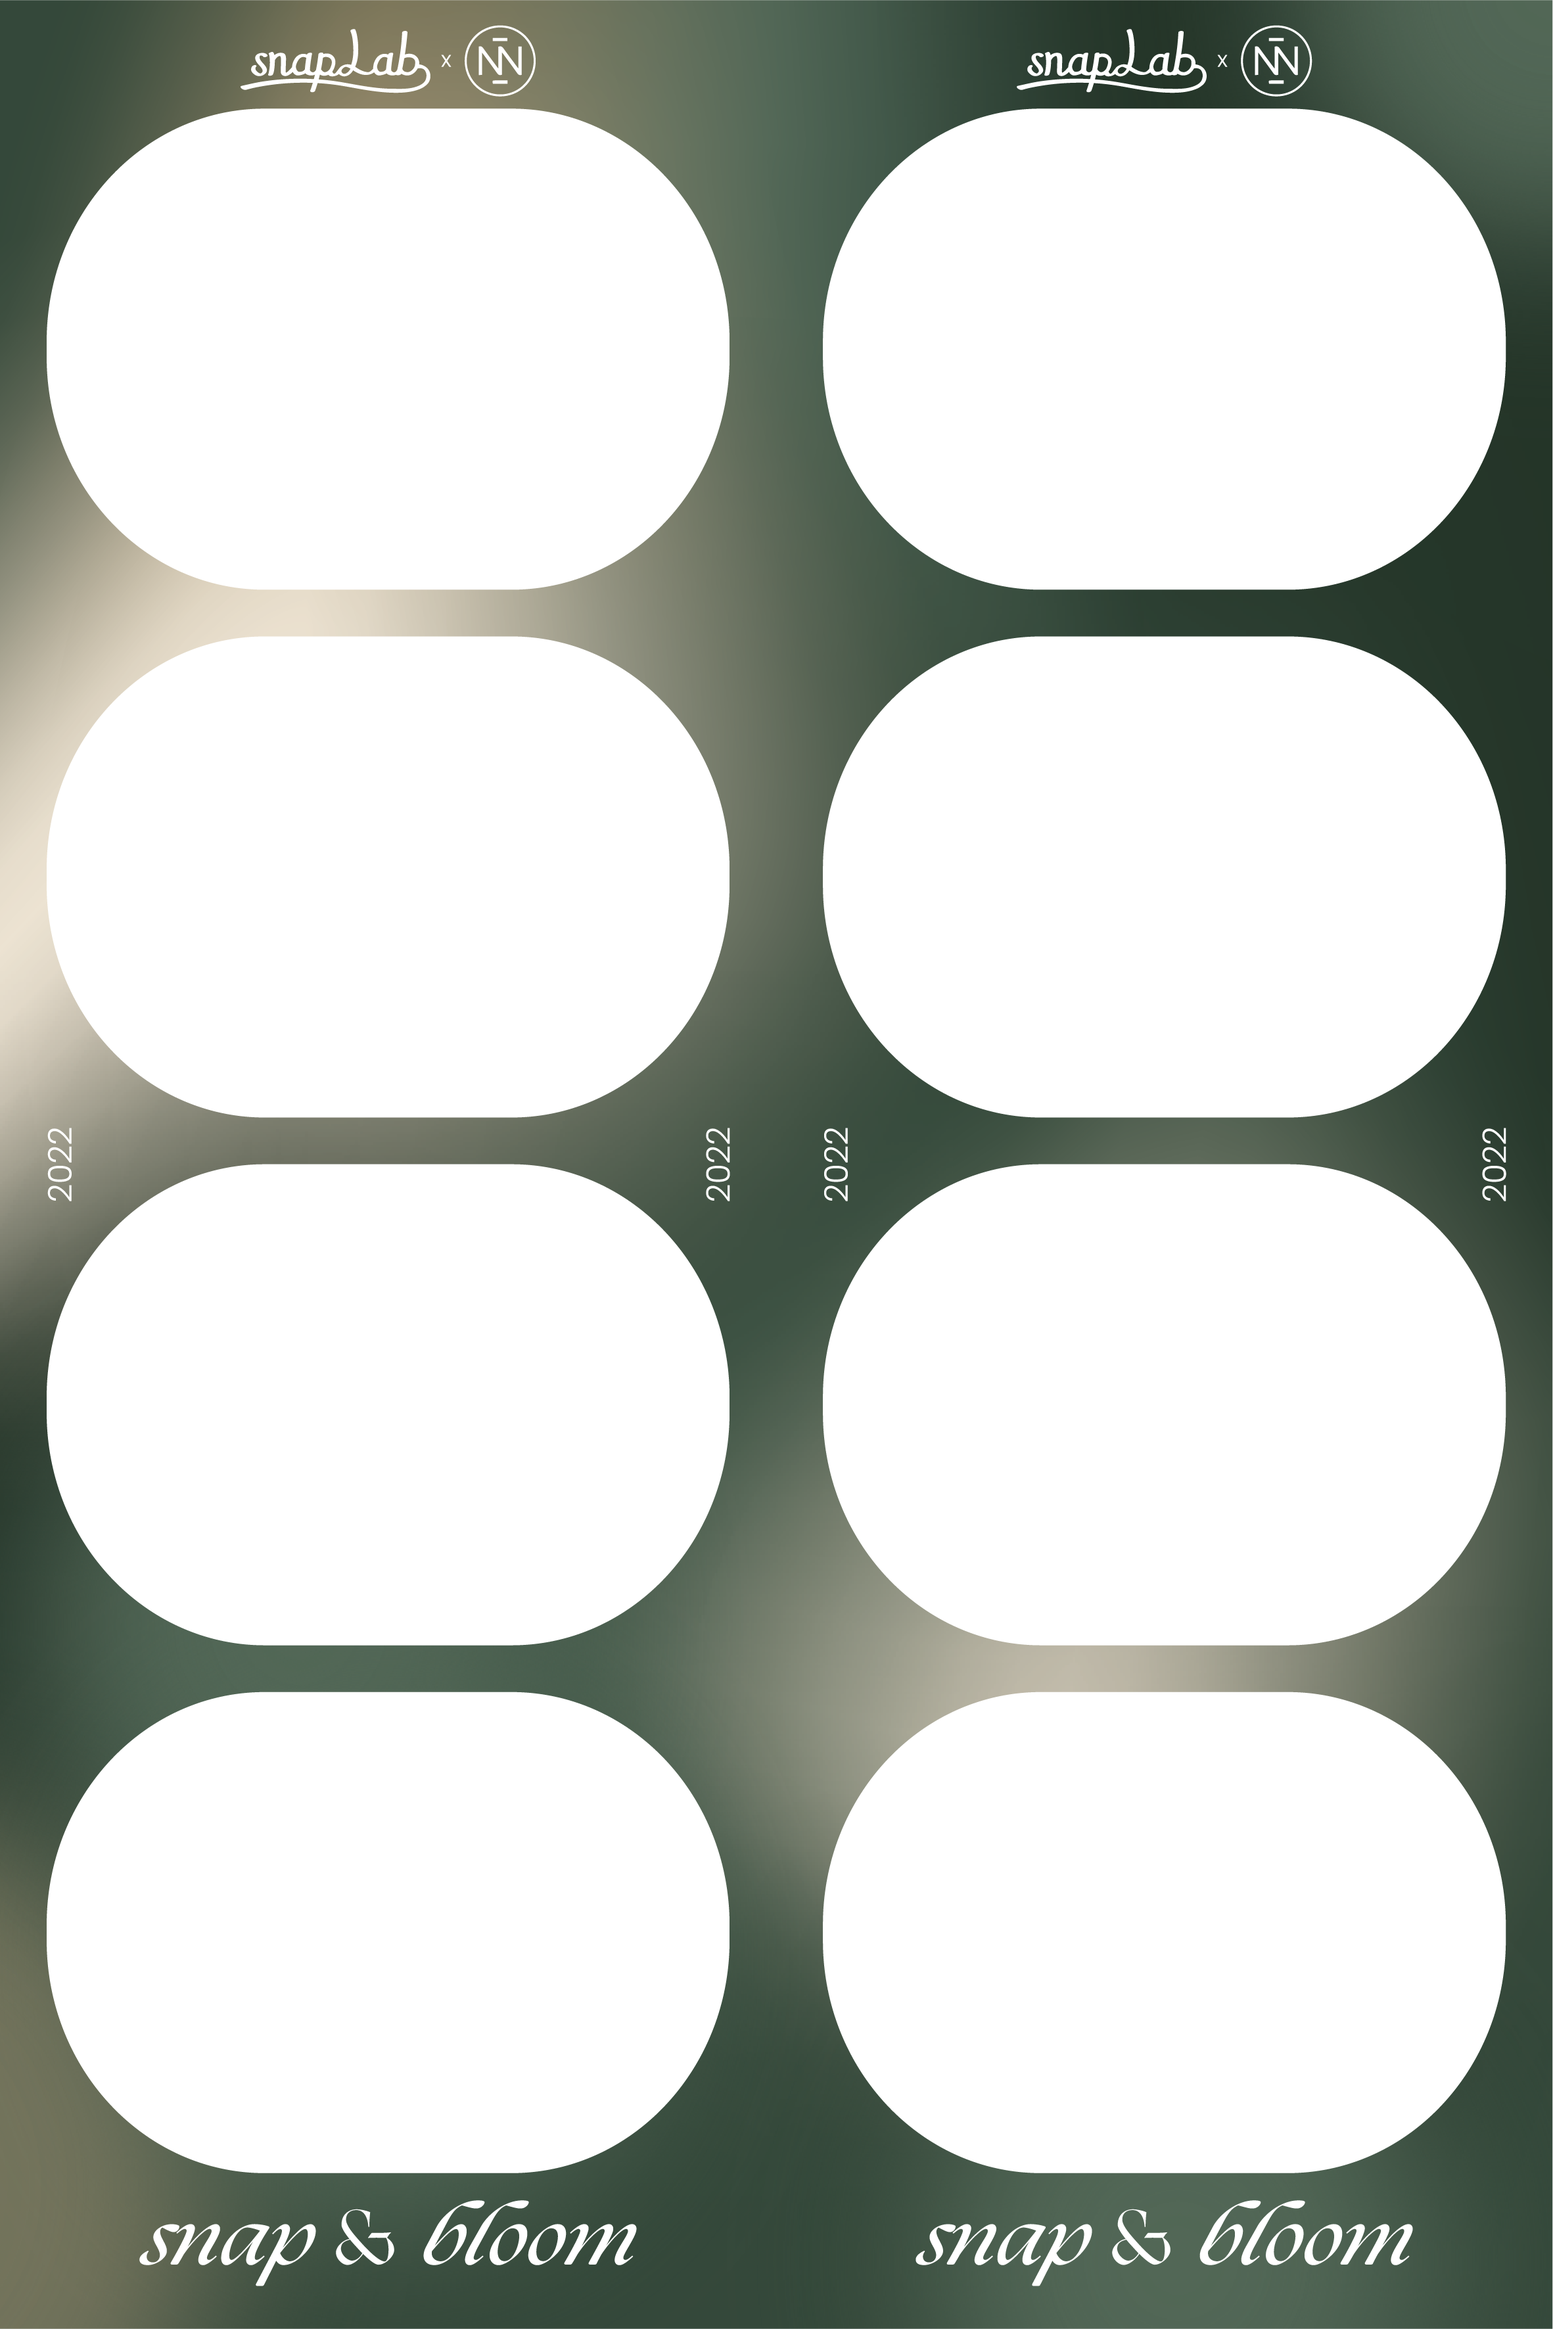
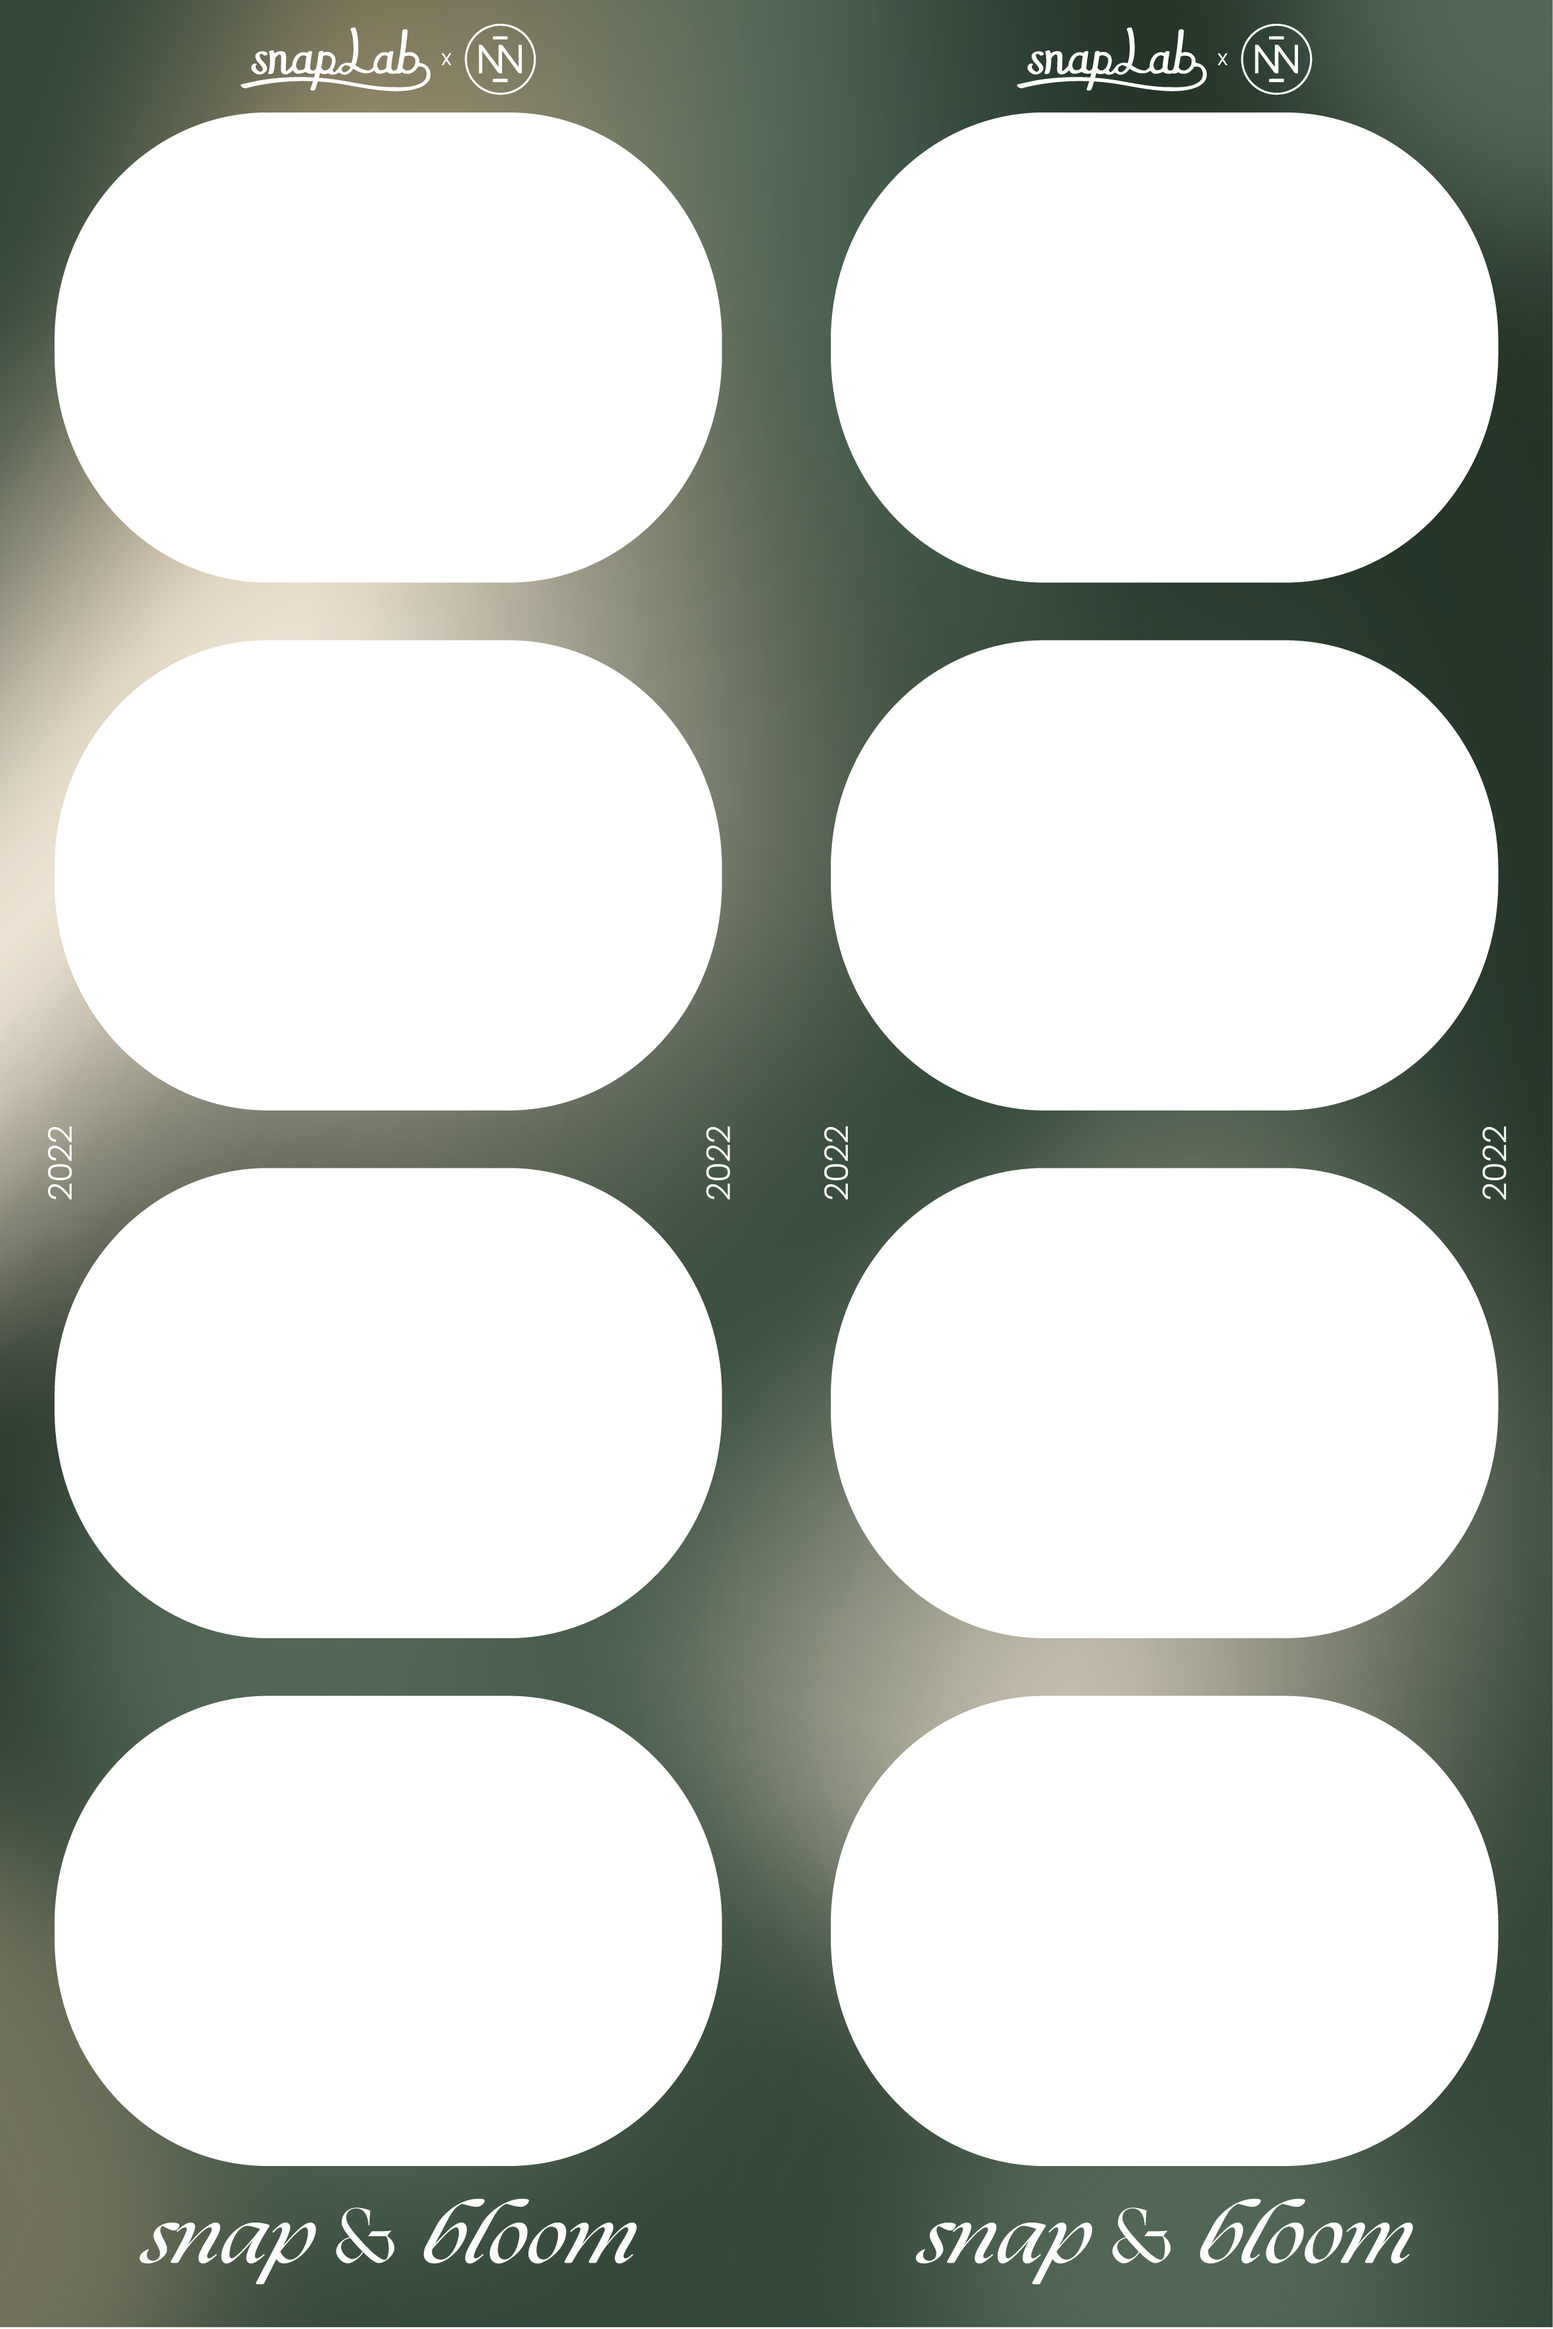
update frame and startup script

diff --git a/image_processing.py b/image_processing.py
@@ -387,7 +387,7 @@ def compile_frame(frame_id, src_img_path, frame_base_dir):
     height_diff = frame_img.shape[0] - compiled_image.shape[0]
     top_padding = create_padding(
       padding_width=compiled_image.shape[1],
-      padding_height=175
+      padding_height=172
     )
     bottom_padding = create_padding(
       padding_width=compiled_image.shape[1],
